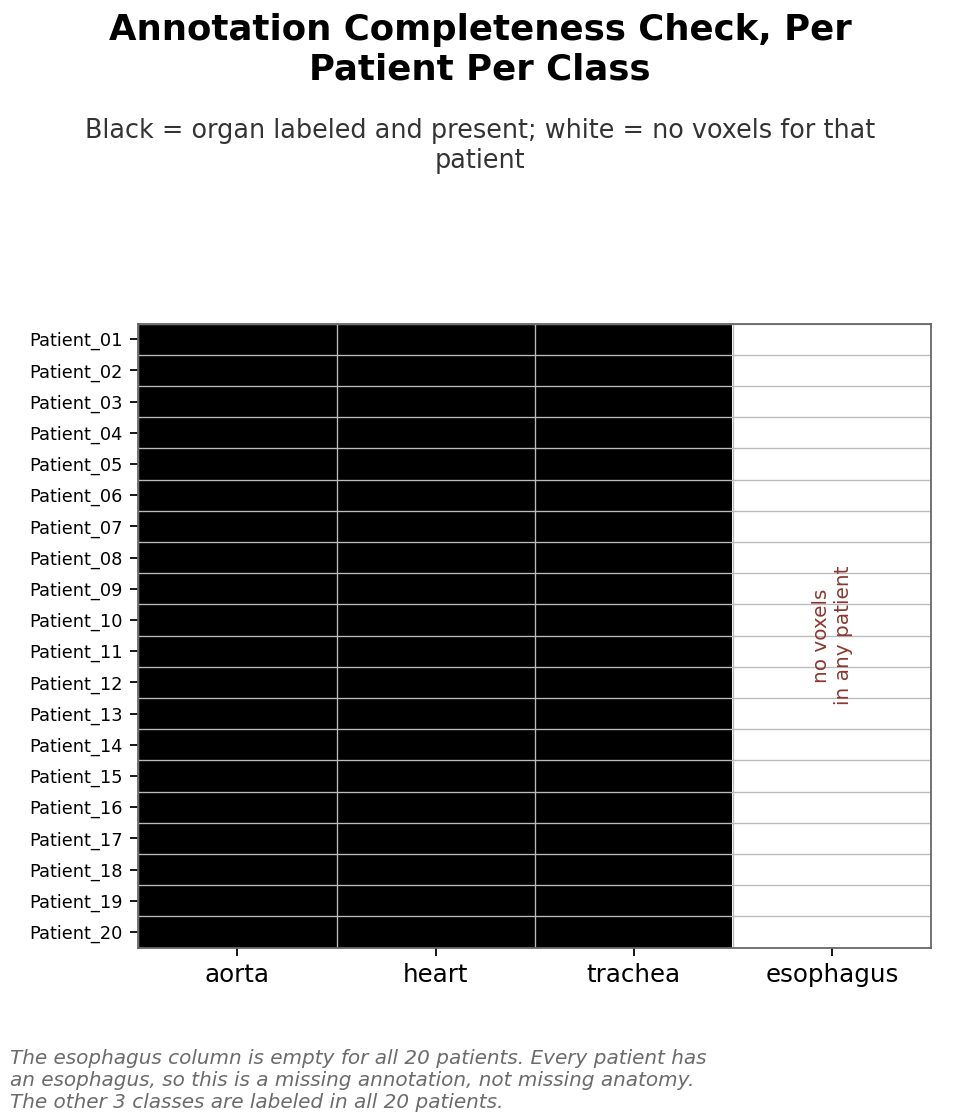
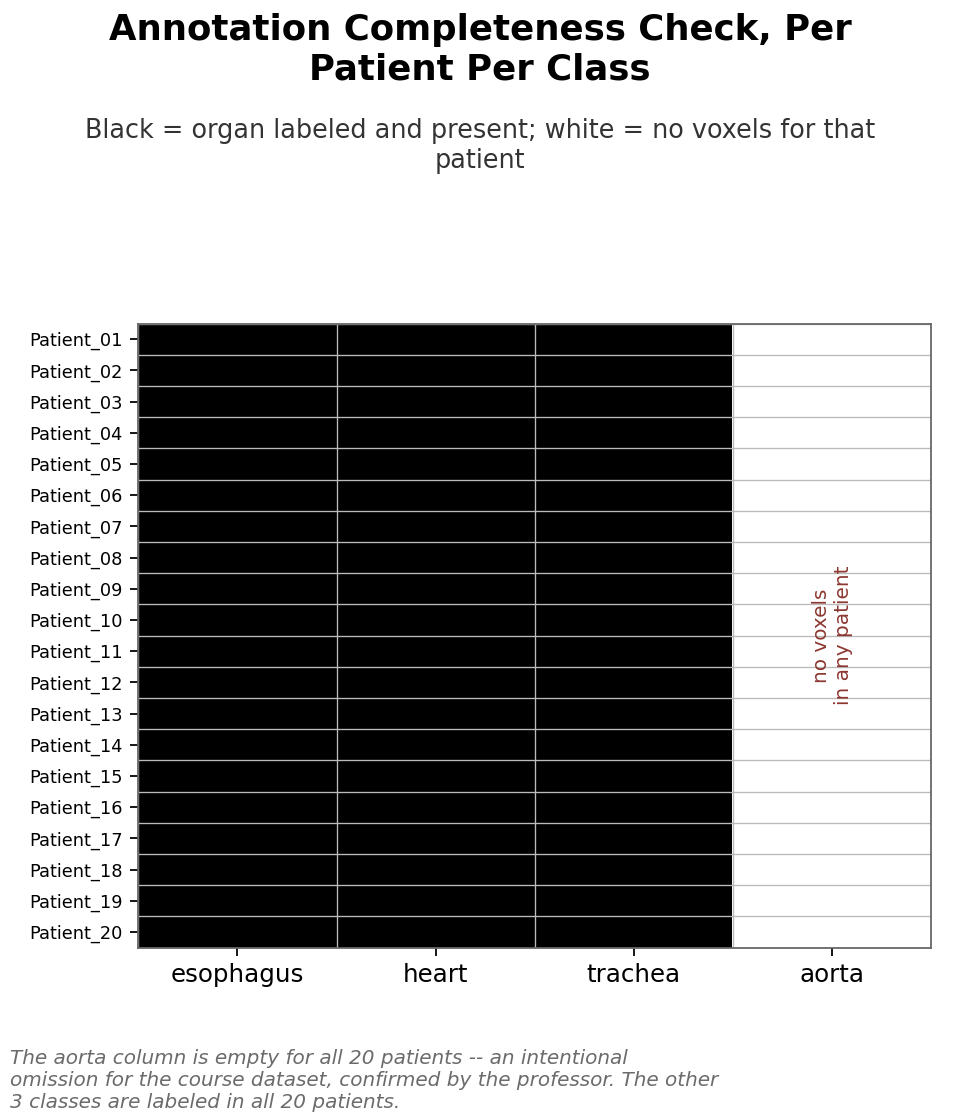
Fix SegTHOR label mapping in dataset exploration tools
tools/aorta_component_case_study.py and tools/explore_data.py assumed
label 1 is the aorta and label 4 (missing) is the esophagus, based on
an earlier unverified reading of the raw volumes. The professor
confirmed the course release follows the standard SegTHOR order
(1=esophagus, 2=heart, 3=trachea, 4=aorta) and intentionally omits the
aorta annotation. Corrected class names, docstrings, and regenerated
the dataset fingerprint and figures accordingly; removed the case
study script, which was entirely premised on the wrong mapping.

Changed region(s): [[0.0, 0.9375, 0.75, 1.0], [0.8125, 0.8438, 0.9375, 0.875], [0.1875, 0.8438, 0.3125, 0.875]]

diff --git a/tools/explore_data.py b/tools/explore_data.py
@@ -13,23 +13,13 @@ incomplete annotations), intensity/HU artifact detection split by the 12-bit
 reconstruction ceiling, acquisition-protocol grouping, a per-patient outlier
 scan, and a raw-vs-GT slice montage for visual sanity checking.
 
-LABEL MAPPING -- IMPORTANT
---------------------------
-The course readme lists the SegTHOR class order as
-``background esophagus heart trachea aorta``. That order does NOT match the
-GT volumes shipped in ``data/segthor_part1``. Verified directly from the data
-(sagittal/coronal reformats, per-class cross-sectional geometry and HU):
-
-    label 1 -> AORTA     (candy-cane arch + descending aorta on the vertebral
-                          column; median cross-section ~31 mm equivalent
-                          diameter; HU ~40-50)
-    label 2 -> heart
-    label 3 -> trachea
-    label 4 -> (absent)  -- the ESOPHAGUS is the organ that is not labeled here
-
-The GT files contain labels {0, 1, 2, 3} only. The missing organ is therefore
-the esophagus, not the aorta, and its absence is an *annotation gap* (every
-patient has an esophagus), not a structural absence.
+LABEL MAPPING
+-------------
+``background esophagus heart trachea aorta`` (0-4), matching the course
+readme and dataset_analysis/utils.py:CLASSES. The GT files contain labels
+{0, 1, 2, 3} only: label 4 (aorta) has zero voxels in every patient. The
+professor confirmed this is an intentional omission for the course dataset,
+not an annotation error.
 
 Usage:
     python tools/explore_data.py \
@@ -71,9 +61,9 @@ import numpy as np
 sys.path.insert(0, str(Path(__file__).resolve().parent))
 from plot_style import PALETTE, apply_style, decorate, legend_below
 
-# See the LABEL MAPPING note in the module docstring: label 1 is the aorta, and
-# class 4 (esophagus) is the one with no voxels in this release.
-CLASS_NAMES = {0: "background", 1: "aorta", 2: "heart", 3: "trachea", 4: "esophagus"}
+# See the LABEL MAPPING note in the module docstring: class 4 (aorta) is the
+# one with no voxels in this release.
+CLASS_NAMES = {0: "background", 1: "esophagus", 2: "heart", 3: "trachea", 4: "aorta"}
 NUM_CLASSES = 5
 ORGAN_COLORS = {1: PALETTE[1], 2: PALETTE[5], 3: PALETTE[2], 4: PALETTE[4]}
 
@@ -88,8 +78,8 @@ CT_12BIT_CEILING = 3071.0
 # Features used for the per-patient morphometric outlier scan. Spacing is handled
 # separately as a categorical acquisition-protocol grouping: it takes 3-4 discrete
 # values, so a MAD-based outlier score on it is meaningless.
-MORPHOMETRIC_FEATURES = ["z_shape", "vol_aorta", "vol_heart", "vol_trachea", "nonzero_fraction"]
-PCA_FEATURES = ["z_shape", "spacing_z", "spacing_xy", "vol_aorta", "vol_heart", "vol_trachea", "nonzero_fraction"]
+MORPHOMETRIC_FEATURES = ["z_shape", "vol_esophagus", "vol_heart", "vol_trachea", "nonzero_fraction"]
+PCA_FEATURES = ["z_shape", "spacing_z", "spacing_xy", "vol_esophagus", "vol_heart", "vol_trachea", "nonzero_fraction"]
 MODIFIED_Z_THRESHOLD = 3.5  # Iglewicz & Hoaglin's recommended cutoff
 
 
@@ -254,7 +244,7 @@ def main():
                 "z_shape": ct.shape[-1],
                 "spacing_z": float(zooms[2]),
                 "spacing_xy": float(zooms[0]),
-                "vol_aorta": organ_vols_this_patient.get(1, 0.0),
+                "vol_esophagus": organ_vols_this_patient.get(1, 0.0),
                 "vol_heart": organ_vols_this_patient.get(2, 0.0),
                 "vol_trachea": organ_vols_this_patient.get(3, 0.0),
                 "nonzero_fraction": fg_fraction_per_patient[-1],
@@ -322,10 +312,9 @@ def main():
         "n_patients": len(patients),
         "label_mapping": {str(c): CLASS_NAMES[c] for c in range(NUM_CLASSES)},
         "label_mapping_note": (
-            "Verified against the raw NIfTI data: label 1 is the AORTA (aortic arch + "
-            "descending aorta visible on sagittal reformats), not the esophagus. The "
-            "esophagus (class 4) has no voxels in this release -- an annotation gap, not "
-            "a structural absence. This differs from the class order in the course readme."
+            "Matches the course readme's class order. Label 4 (aorta) has no voxels in "
+            "this release; the professor confirmed this is an intentional omission for "
+            "the course dataset, not an annotation error."
         ),
         "split": {
             "val_patients": sorted(val_pids),
@@ -463,18 +452,15 @@ def main():
 
     md = []
     md.append(f"# SegTHOR part1 dataset fingerprint (n={len(patients)} patients)\n")
-    md.append("## Label mapping (verified against the raw data)\n")
+    md.append("## Label mapping\n")
     md.append("| label | organ |")
     md.append("|---|---|")
     for c in range(NUM_CLASSES):
         md.append(f"| {c} | {CLASS_NAMES[c]} |")
     md.append(
-        "\n**Label 1 is the aorta, not the esophagus.** Confirmed from sagittal/coronal "
-        "reformats (aortic arch + descending aorta on the vertebral column) and from "
-        "cross-sectional geometry (~31 mm median equivalent diameter, HU ~40-50). The "
-        "course readme's class order (`esophagus heart trachea aorta`) does not match "
-        "these GT files. The **esophagus** is the organ with no voxels here, and since "
-        "every patient has one, that is an annotation gap -- not a structural absence.\n"
+        "\n**Label 4 (aorta) has no voxels in this release.** The professor confirmed "
+        "this is an intentional omission for the course dataset, not an annotation "
+        "error.\n"
     )
     if val_pids:
         md.append("## Train / validation split\n")
@@ -720,8 +706,8 @@ def main():
         subtitle=f"Background is {bg_pct:.2f}% of voxels (off-chart); the {len(positive)} labeled "
         f"classes span {span_orders:.1f} orders of magnitude",
         footnote_text=(
-            f"Class 4 ({', '.join(absent_names)}) has zero voxels in this part1 release. Every patient has "
-            f"an esophagus, so this is an annotation gap, not a structural absence -- the class cannot be "
+            f"Class 4 ({', '.join(absent_names)}) has zero voxels in this part1 release. The professor "
+            f"confirmed this is an intentional omission for the course dataset -- the class cannot be "
             f"learned or scored here."
         ),
     )
@@ -748,8 +734,8 @@ def main():
     legend_below(ax, ncol=4)
     pct_over = 100.0 * n_voxels_over_500 / total_voxels
     # Quote the interquartile band, not p0.5/p99.5: the soft-tissue masks have
-    # thin air-contaminated tails at their edges (aorta p0.5 is -642 HU), which
-    # would describe a far wider overlap than the histograms actually show.
+    # thin air-contaminated tails at their edges, which would describe a far
+    # wider overlap than the histograms actually show.
     soft_classes = [c for c in present_classes if np.mean(np.concatenate(hu_by_class[c])) > -200]
     soft_pooled = np.concatenate([np.concatenate(hu_by_class[c]) for c in soft_classes])
     soft_lo, soft_hi = np.percentile(soft_pooled, 25), np.percentile(soft_pooled, 75)
@@ -892,8 +878,8 @@ def main():
         "Annotation Completeness Check, Per Patient Per Class",
         subtitle="Black = organ labeled and present; white = no voxels for that patient",
         footnote_text=(
-            f"The {absent_str} column is empty for all {len(pids)} patients. Every patient has an "
-            f"esophagus, so this is a missing annotation, not missing anatomy. The other "
+            f"The {absent_str} column is empty for all {len(pids)} patients -- an intentional omission "
+            f"for the course dataset, confirmed by the professor. The other "
             f"{len(present_classes)} classes are labeled in all {len(pids)} patients."
         ),
     )
@@ -1000,10 +986,7 @@ def main():
         fig,
         "Visual QC: Raw CT vs. Ground-Truth Overlay",
         subtitle=f"Anterior up, standard axial orientation. Columns: {montage_reasons}",
-        footnote_text=(
-            f"Class 1 is rendered here as the aorta: on these slices it is the contrast-filled "
-            f"vessel adjacent to the spine and heart, not a collapsed esophageal lumen."
-        ),
+        footnote_text=f"Colors follow {CLASS_NAMES[1]}/{CLASS_NAMES[2]}/{CLASS_NAMES[3]} per the legend above.",
     )
     fig.savefig(args.out_dir / "slice_montage_qc.png")
     plt.close(fig)

diff --git a/figures/fingerprint.md b/figures/fingerprint.md
@@ -1,22 +1,16 @@
 # SegTHOR part1 dataset fingerprint (n=20 patients)
 
-## Label mapping (verified against the raw data)
+## Label mapping
 
 | label | organ |
 |---|---|
 | 0 | background |
-| 1 | aorta |
+| 1 | esophagus |
 | 2 | heart |
 | 3 | trachea |
-| 4 | esophagus |
+| 4 | aorta |
 
-**Label 1 is the aorta, not the esophagus.** Confirmed from sagittal/coronal reformats (aortic arch + descending aorta on the vertebral column) and from cross-sectional geometry (~31 mm median equivalent diameter, HU ~40-50). The course readme's class order (`esophagus heart trachea aorta`) does not match these GT files. The **esophagus** is the organ with no voxels here, and since every patient has one, that is an annotation gap -- not a structural absence.
-
-## Train / validation split
-
-- Validation patients (5): Patient_01, Patient_11, Patient_15, Patient_17, Patient_19
-- Training patients (15): Patient_02, Patient_03, Patient_04, Patient_05, Patient_06, Patient_07, Patient_08, Patient_09, Patient_10, Patient_12, Patient_13, Patient_14, Patient_16, Patient_18, Patient_20
-- The split is patient-disjoint (no slice-level leakage). **However, every statistic below is pooled over all 20 patients**, validation included, so any preprocessing derived from this fingerprint is fitted on held-out data.
+**Label 4 (aorta) has no voxels in this release.** The professor confirmed this is an intentional omission for the course dataset, not an annotation error.
 
 ## Shape & spacing
 
@@ -47,10 +41,10 @@ No DICOM tags survive in these files (every NIfTI text field is zeroed), so scan
 | class | % voxels | % slices present |
 |---|---|---|
 | background (0) | 98.955 | 100.0 |
-| aorta (1) | 0.241 | 63.5 |
+| esophagus (1) | 0.241 | 63.5 |
 | heart (2) | 0.766 | 22.5 |
 | trachea (3) | 0.037 | 28.0 |
-| esophagus (4) | 0.000 | 0.0 |
+| aorta (4) | 0.000 | 0.0 |
 
 ## HU intensity
 
@@ -72,19 +66,19 @@ Note the difference from the whole-image percentiles above ([-1000, 487]): clipp
 
 | organ | mean HU (fg) | HU [0.5, 99.5] pct range |
 |---|---|---|
-| aorta | 52.3 | [-642.0, 243.0] |
+| esophagus | 52.3 | [-642.0, 243.0] |
 | heart | 39.9 | [-158.0, 257.0] |
 | trachea | -811.5 | [-1000.0, 54.0] |
-| esophagus | not labeled in this release | - |
+| aorta | not labeled in this release | - |
 
 ## Organ bounding-box extent (mm, dx x dy x dz, median over patients where present)
 
 | organ | median extent (mm) | # patients present |
 |---|---|---|
-| aorta | 75.2 x 111.0 x 274.5 | 20 |
+| esophagus | 75.2 x 111.0 x 274.5 | 20 |
 | heart | 139.2 x 120.1 x 96.2 | 20 |
 | trachea | 86.4 x 64.4 x 122.5 | 20 |
-| esophagus | n/a | 0 |
+| aorta | n/a | 0 |
 
 Axis order is the array/voxel order (x, y, z) = (L, P, S); dz is the through-plane extent.
 
@@ -92,10 +86,10 @@ Axis order is the array/voxel order (x, y, z) = (L, P, S); dz is the through-pla
 
 | organ | median | min | max | max/min | coefficient of variation |
 |---|---|---|---|---|---|
-| aorta | 255.7 | 127.0 | 522.3 | 4.11x | 32% |
+| esophagus | 255.7 | 127.0 | 522.3 | 4.11x | 32% |
 | heart | 862.0 | 438.0 | 1829.3 | 4.18x | 33% |
 | trachea | 38.8 | 27.6 | 72.9 | 2.64x | 28% |
-| esophagus | 0.0 | 0.0 | 0.0 | - | - (not labeled) |
+| aorta | 0.0 | 0.0 | 0.0 | - | - (not labeled) |
 
 ## Foreground (nonzero-CT) fraction of volume
 
@@ -143,6 +137,6 @@ Two criteria, unioned. PC1+PC2 of the 7 shape/spacing/volume features explain on
 - Flagged by PC1-PC2 distance: Patient_15
 - Flagged by per-feature modified z-score (|z| > 3.5):
   - Patient_05: z_shape z=+4.60
-  - Patient_15: vol_aorta z=+3.94, vol_trachea z=+3.57
+  - Patient_15: vol_esophagus z=+3.94, vol_trachea z=+3.57
   - Patient_18: vol_heart z=+6.68
 - **Flagged by either: Patient_05, Patient_15, Patient_18**

diff --git a/tools/README.md b/tools/README.md
@@ -32,12 +32,11 @@ Runs in about a minute over the 20 part1 patients and needs only
 (default `data/SEGTHOR/val/gt`) is used only to label which patients are
 held out — it is skipped silently if that directory does not exist.
 
-**Label mapping.** In `data/segthor_part1`, GT label **1 is the aorta**, and the
-**esophagus** is the class with no voxels — the opposite of the class order in
-the top-level readme (`background esophagus heart trachea aorta`). This was
-verified against the raw volumes (the aortic arch is unmistakable on a sagittal
-reformat). `explore_data.py` uses the corrected mapping; anything else reading
-these GT files needs the same correction.
+**Label mapping.** In `data/segthor_part1`, GT labels are `1=esophagus,
+2=heart, 3=trachea, 4=aorta` — matching the top-level readme's class order.
+**Aorta (4)** is the class with no voxels: the professor confirmed this is an
+intentional omission for the course dataset. See
+`dataset_analysis/utils.py:CLASSES` for the canonical mapping.
 
 Requires matplotlib >= 3.9 (`tick_labels=` boxplot kwarg).
 
